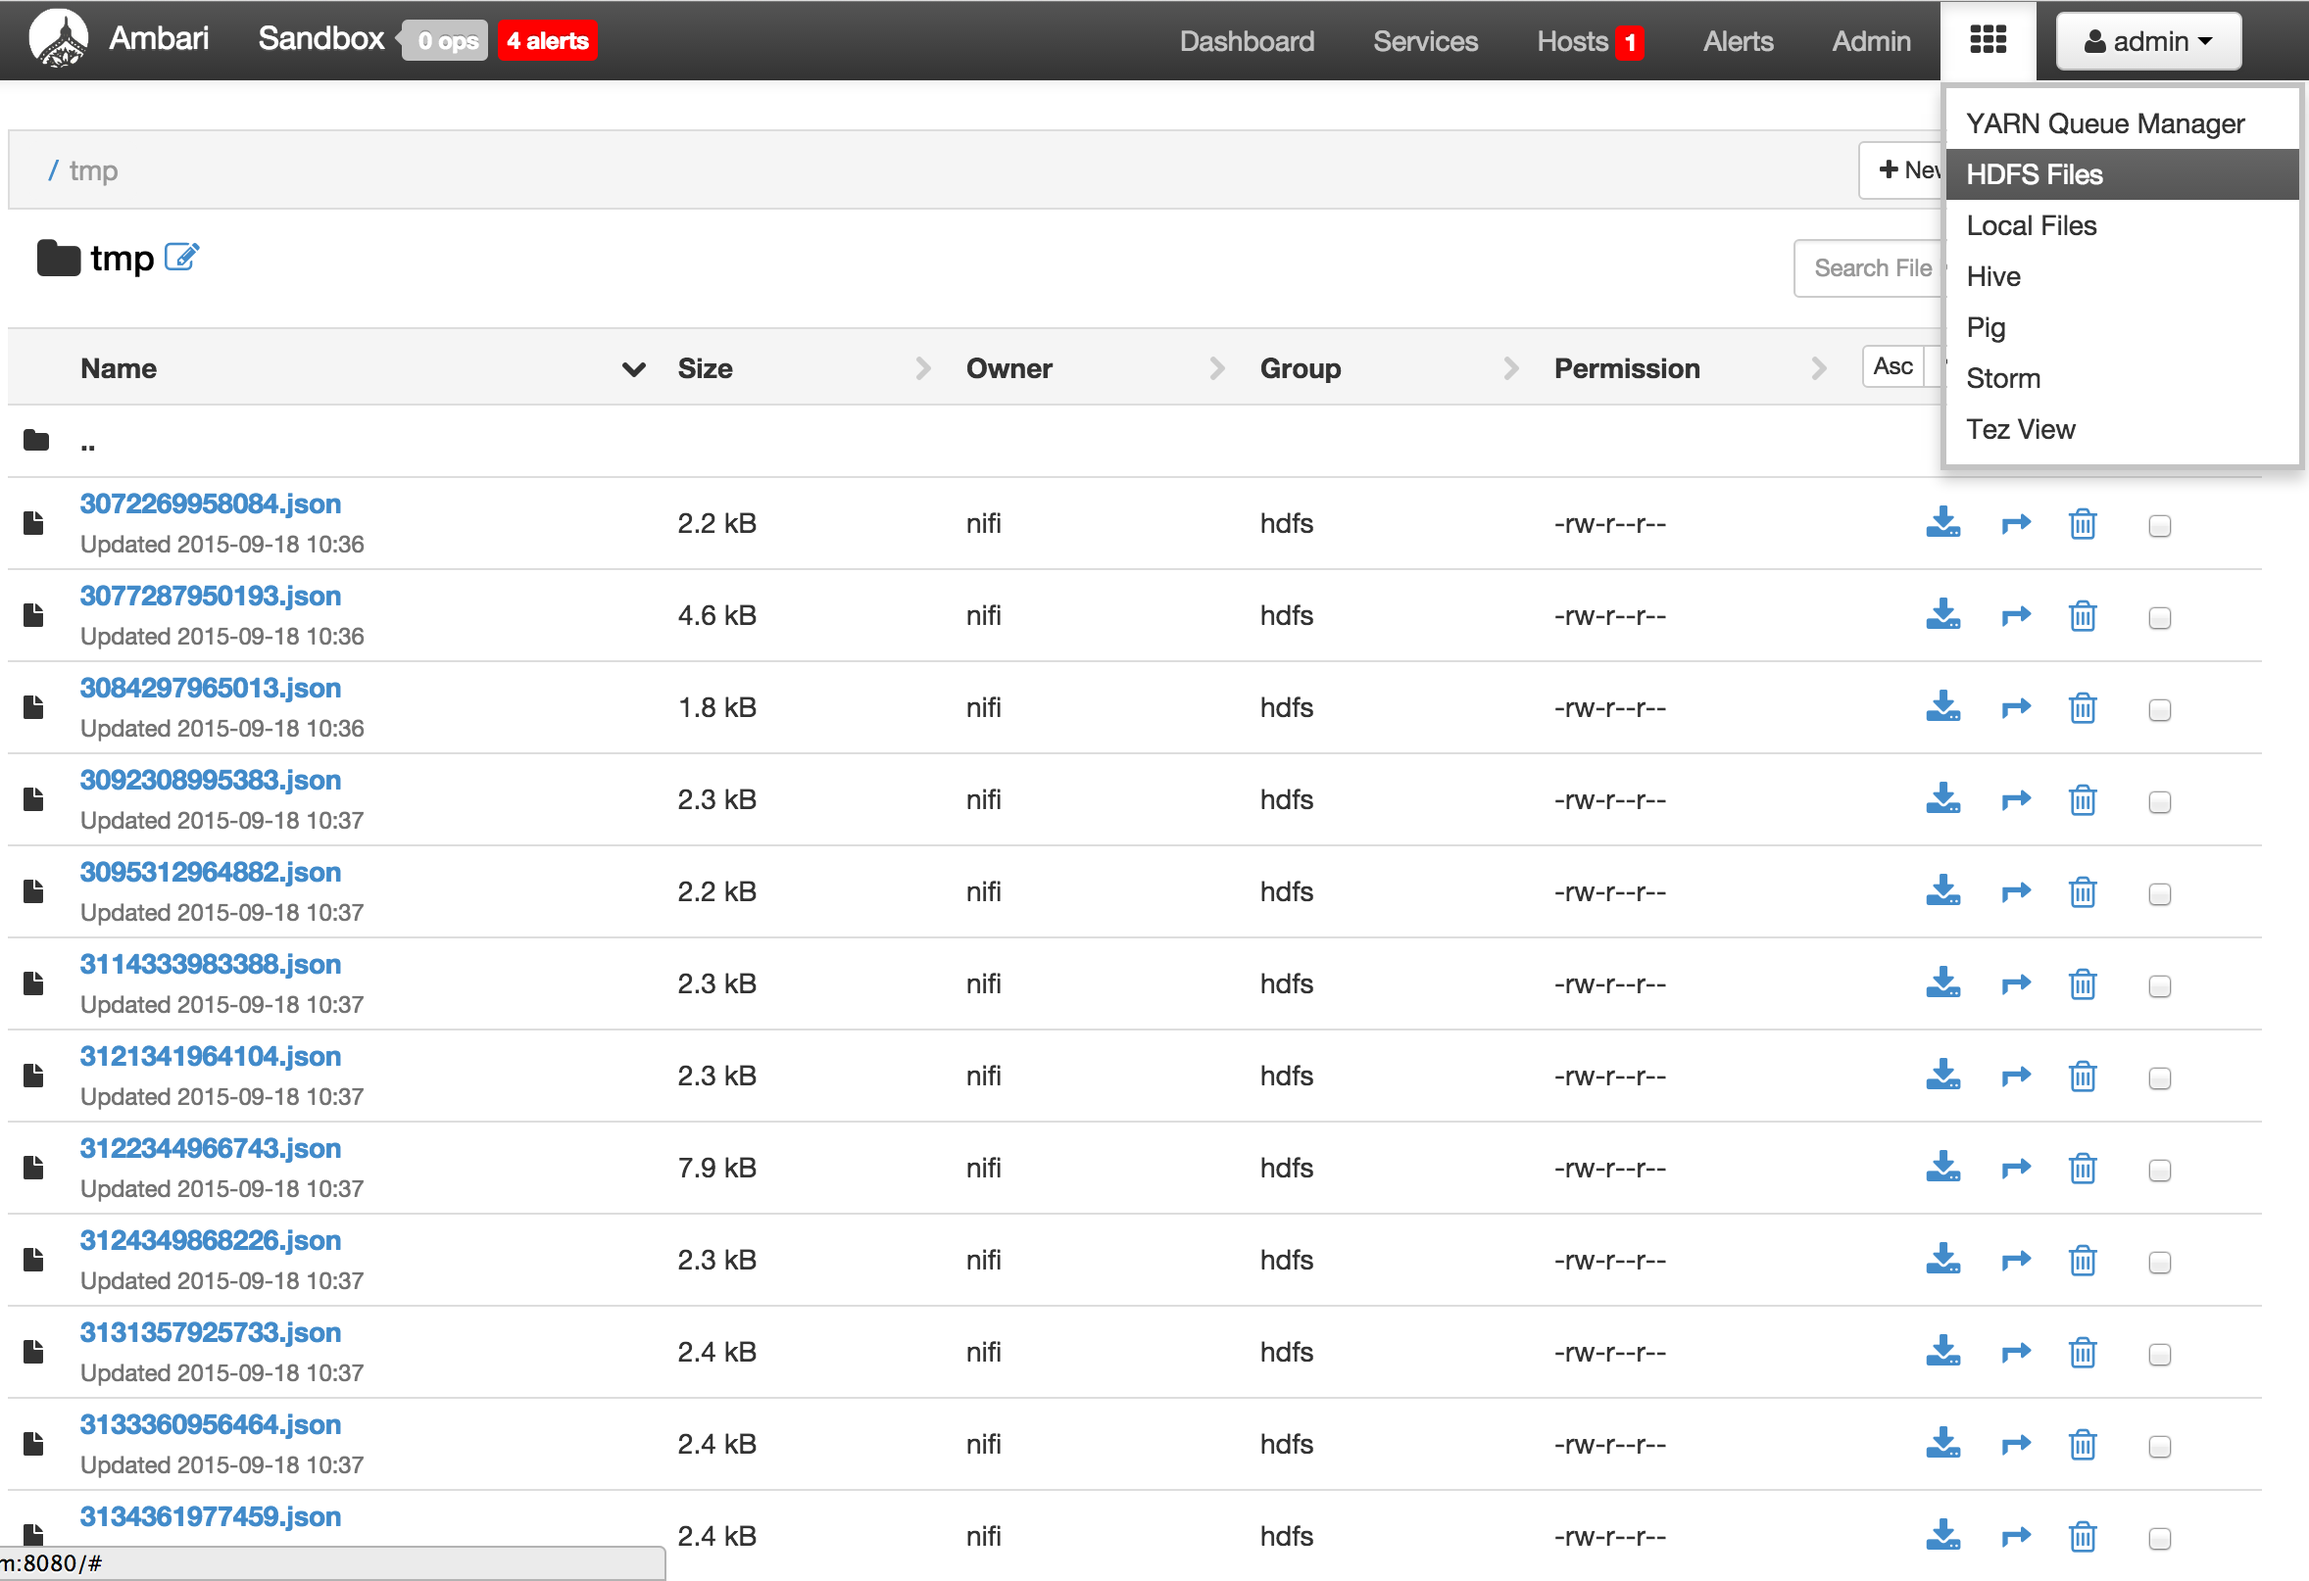
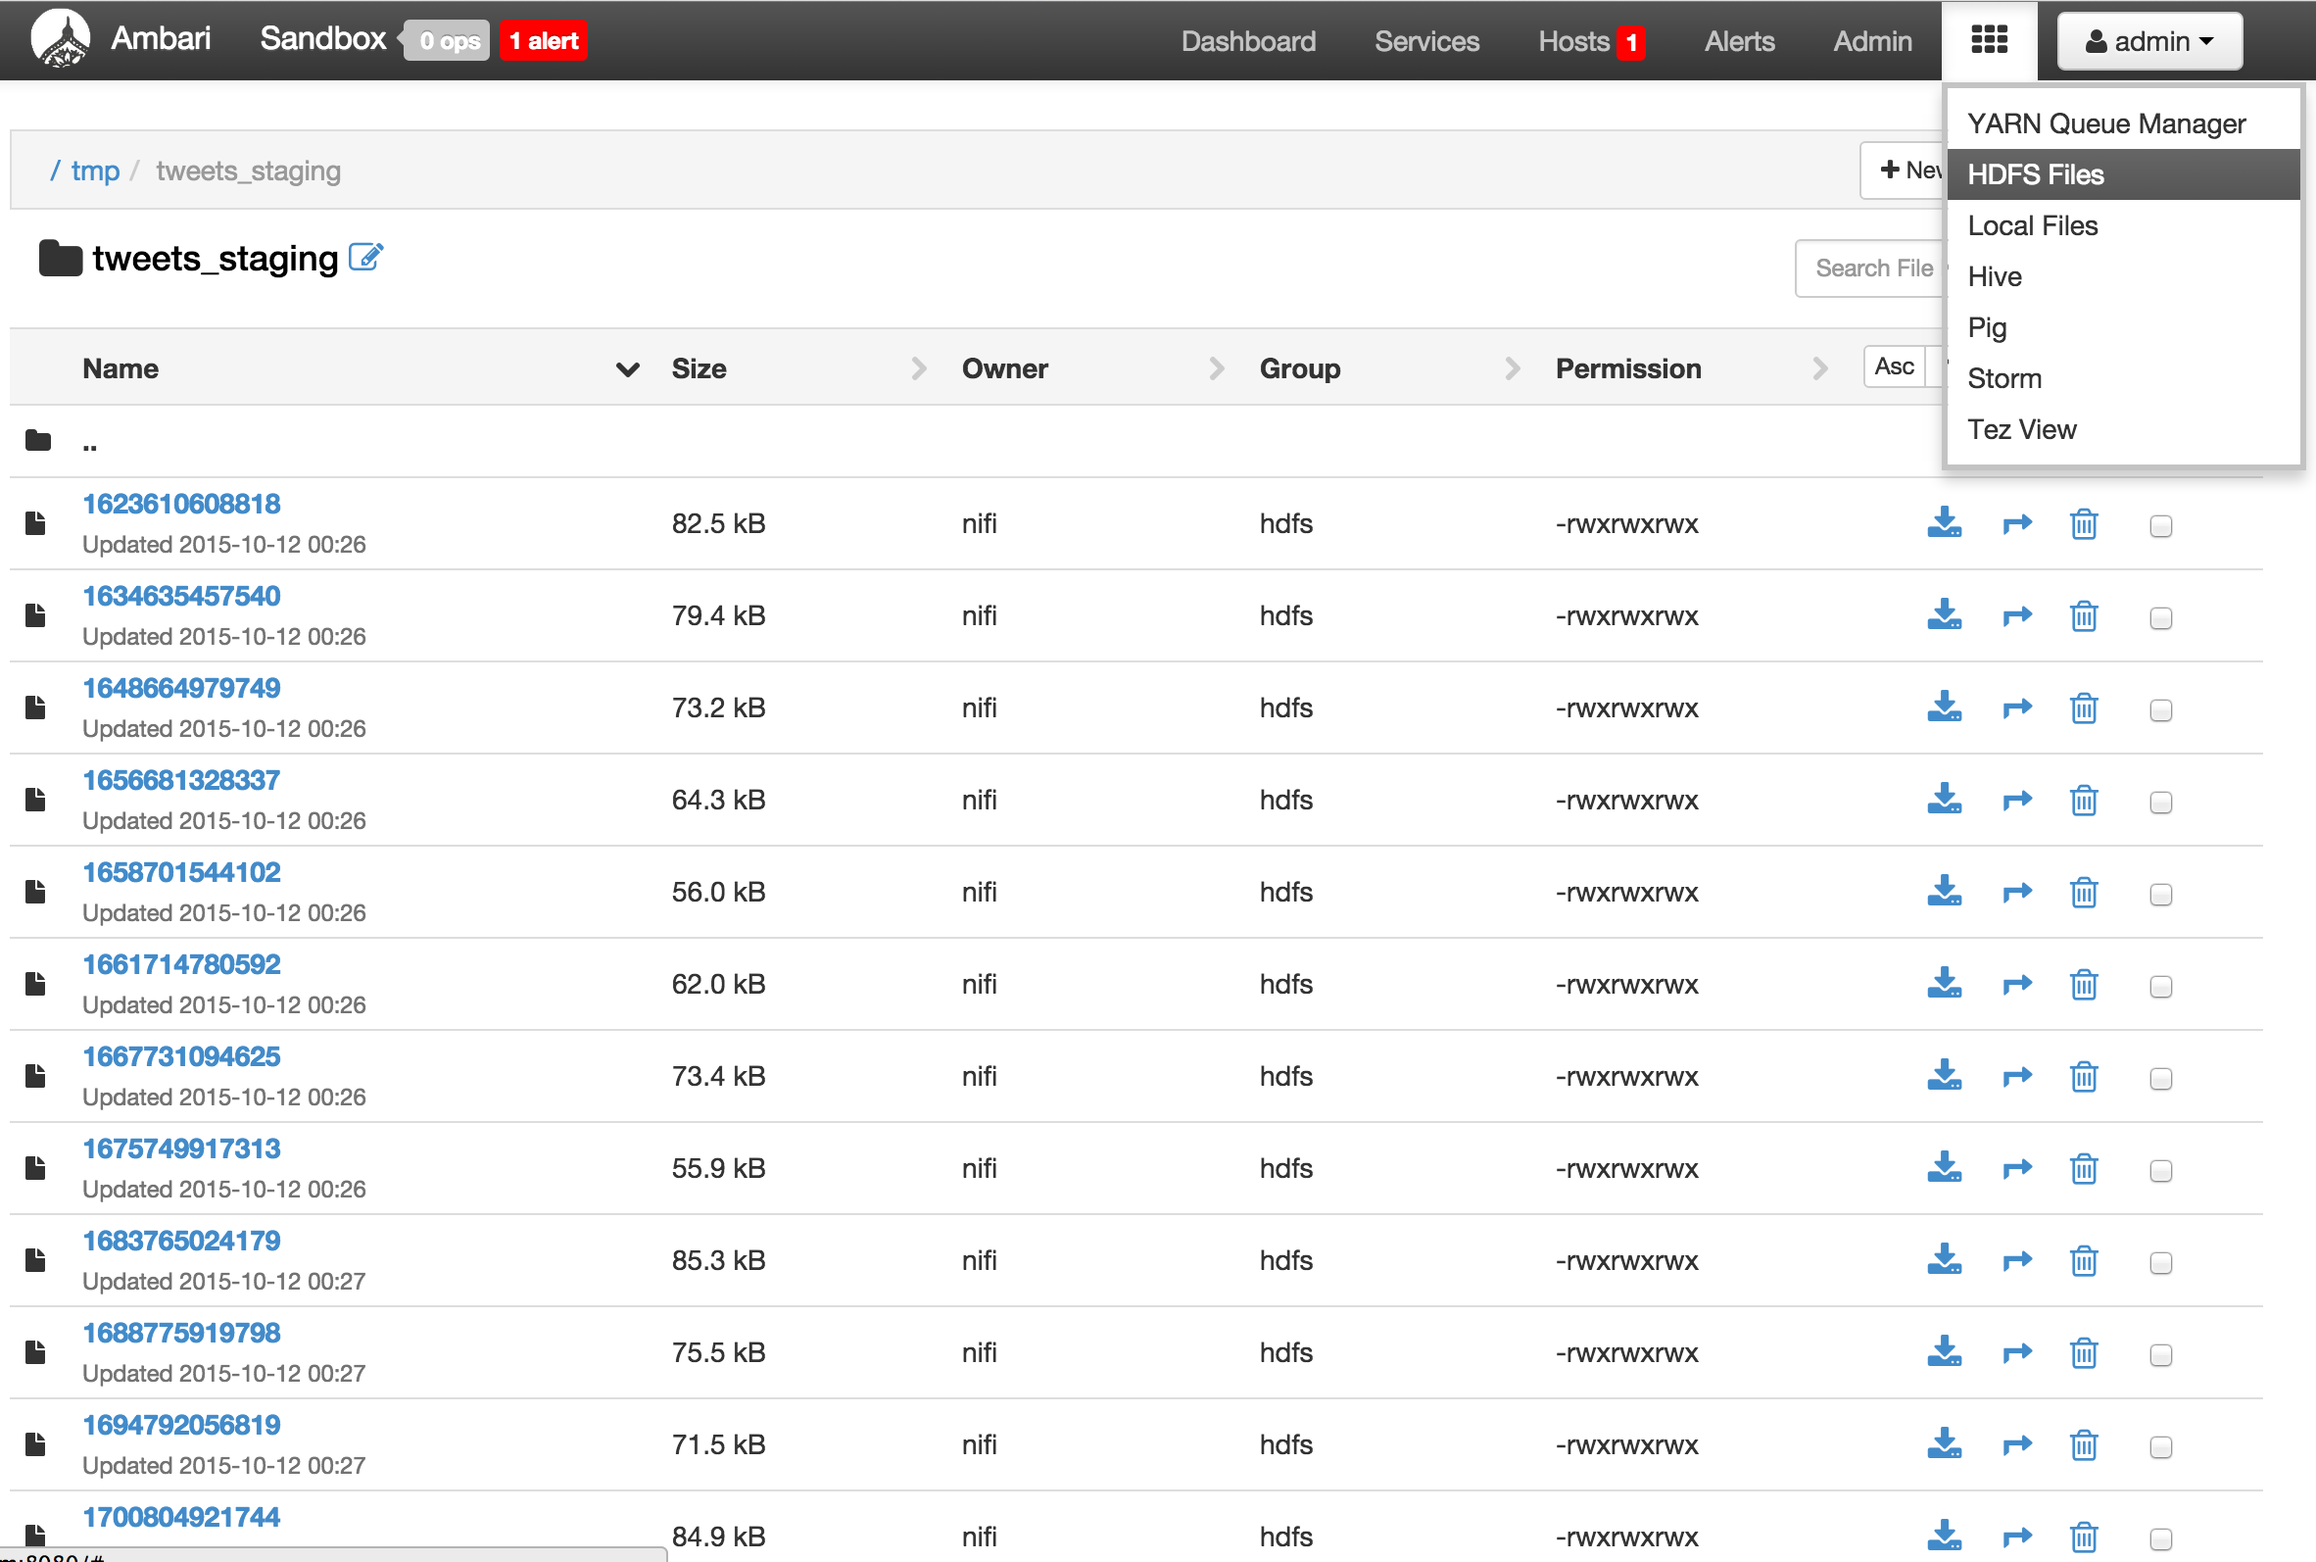
added demo template and banana dasboard

diff --git a/README.md b/README.md
@@ -107,9 +107,19 @@ http://sandbox.hortonworks.com:9090/nifi
 
 #### Build Twitter flow
 
-- Create simple flow to read Tweets into HDFS/Solr and visualize using Banana dashboard
+- Install Nifi via Ambari service on sandbox by running below and running 'Add service' wizard
+```
+VERSION=`hdp-select status hadoop-client | sed 's/hadoop-client - \([0-9]\.[0-9]\).*/\1/'`
+sudo git clone https://github.com/abajwa-hw/ambari-nifi-service.git   /var/lib/ambari-server/resources/stacks/HDP/$VERSION/services/NIFI   
+#sandbox
+service ambari restart
+#non sandbox
+service ambari-server restart
+``` 
 
-  - Pre-requisite 1: HDP sandbox comes LW HDP search. Follow the steps below to use it to setup Banana, start SolrCloud and create a collection
+- Import simple flow to read Tweets into HDFS/Solr and visualize using Banana dashboard
+
+  - HDP sandbox comes LW HDP search. Follow the steps below to use it to setup Banana, start SolrCloud and create a collection
 
     - If running on an Ambari installed HDP 2.3 cluster (instead of sandbox), run the below to install HDPsearch first. These are not needed on sandbox.
     
@@ -119,6 +129,14 @@ http://sandbox.hortonworks.com:9090/nifi
   sudo -u hdfs hadoop fs -chown solr /user/solr
   ```    
     
+  - Ensure no log files owned by root
+  ```
+  chown -R solr:solr /opt/lucidworks-hdpsearch/solr  #current sandbox version has files owned by root here which causes problems
+  ```    
+  - Run remaining setup steps as solr user
+  ```
+  su solr
+  ```
   - Setup the Banana dashboard by copying default.json to dashboard dir
   ```
   cd /opt/lucidworks-hdpsearch/solr/server/solr-webapp/webapp/banana/app/dashboards/
@@ -134,10 +152,7 @@ http://sandbox.hortonworks.com:9090/nifi
    ```  
   
   - Start Solr in cloud mode and create a collection called tweets
-  ```
-  chown -R solr:solr /opt/lucidworks-hdpsearch/solr  #current sandbox version has files owned by root here which causes problems
-  su solr
-  
+  ```  
   /opt/lucidworks-hdpsearch/solr/bin/solr start -c -z localhost:2181
 
   /opt/lucidworks-hdpsearch/solr/bin/solr create -c tweets \
@@ -148,47 +163,56 @@ http://sandbox.hortonworks.com:9090/nifi
   
 
   
-  - Pre-requisite 2: Ensure the time on your sandbox is accurate or you will get errors using the GetTwitter processor. To fix the time, run the below:
+  - Ensure the time on your sandbox is accurate or you will get errors using the GetTwitter processor. To fix the time, run the below:
   ```
   yum install -y ntp
   service ntpd stop
   ntpdate pool.ntp.org
   service ntpd start
   ```  
+  
+  - Create Hive table to be able to run queries on the tweets
+  ```
+  sudo -u hdfs hadoop fs -chmod -R 777 /tmp/tweets_staging
+
+  hive> create table if not exists tweets_text_partition(
+    tweet_id bigint, 
+    created_unixtime bigint, 
+    created_time string, 
+    displayname string, 
+    msg string,
+    fulltext string
+  )
+  row format delimited fields terminated by "|"
+  location "/tmp/tweets_staging"
+
+```    
   - Now open Nifi webui and run the remaining steps there:    
-  - Capture tweets from Twitter API
-    - Drag processor (next to nifi icon in upper left) to canvas and search for GetTwitter and click Add to add to canvas.
-    - Right click on it > Configure
-      - Under Settings:
-        - check failure and success 
+  - Download prebuilt Twitter_Dashboard.xml template to your laptop from [here](https://raw.githubusercontent.com/abajwa-hw/ambari-nifi-service/master/demofiles/Twitter_Dashboard.xml)
+  - Import flow template info Nifi:
+    - Import template by clicking on Templates (third icon from right) which will launch the 'Nifi Flow templates' popup
+    - Browse and navigate to where ever you downloaded Twitter_Dashboard.xml on your local machine
+    - Click Import
+    - Close the popup
+    - Drag/drop the Template icon (7th icon form left) onto the canvas. A picklist popup should appear
+    - Select 'Twitter dashboard' and click Add
+    
+  - Configure GetTwitter processor
+    - Right click on 'GetTwitter' processor (near top) and click Configure
       - Under Properties:
         - Add your Twitter key/secrets
-        - change the 'Twitter Endpoint' to 'Filter Endpoint'
-        - enter the search terms (e.g. hortonworks,hadoop) under 'Terms to Filter on'  
+        - ensure the 'Twitter Endpoint' is set to 'Filter Endpoint'
+        - enter the search terms (e.g. AAPL,GOOG,MSFT,ORCL) under 'Terms to Filter on'  
         
-  - Write tweets to HDFS    
-    - Drag processor to canvas and search for PutHDFS
-    - Right click on it > Configure
-      - Under Settings:
-        - check failure and success
-      - Under Properties:
-        - Hadoop Configuration Resources: `/etc/hadoop/conf/core-site.xml`
-        - Directory: `/tmp`
-        
-  - Connect the two processors:
-    - By dragging the circle in the center of GetTwitter box to PutHDFS box and click Add to add to canvas.
-    
-  - Write tweets to Solr
-    - Drag procesor to canvas and search for PutSolrContentStream
-    - Right click on it > Configure
-      - Under Settings:
-        - check failure and success
-      - Under Properties:
-        - Solr Type: Cloud
-        - Solr Location: sandbox.hortonworks.com:2181
-        - Collection: tweets  
-      - Connect the two by dragging the circle in the center of GetTwitter box to PutSolrContentStream box and click Add  
-
+  - Review the other processors and modify properties as needed:
+    - EvaluateJsonPath: Pulls out attributes of tweets
+    - RouteonAttribute: Ensures only tweets with non-empty messages are processed
+    - PutSolrContentStream: Writes the selected attributes to Solr. In this case, assuming Solr is running in cloud mode with a collection 'tweets'
+    - ReplaceText: Formats each tweet as pipe (|) delimited line entry e.g. tweet_id|unixtime|humantime|user_handle|message|full_tweet
+    - MergeContent: Merges tweets into a single file (either 20 tweets or 120s, whichever comes first)
+    - PutFile: writes tweets to local disk under /tmp/tweets/
+    - PutHDFS: writes tweets to HDFS under /tmp/tweets_staging
+            
   - If setup correctly, the top left hand of each processor on the canvas will show a red square (indicating the flow is stopped)
 
   - Click the Start button (green triangle near top of screen) to start the flow
@@ -202,6 +226,18 @@ http://sandbox.hortonworks.com:9090/nifi
       - http://sandbox.hortonworks.com:8983/solr/#/tweets_shard1_replica1/query
     ![Image](../master/screenshots/Solr-query.png?raw=true)  
 
+  - tweets appear in Banana: 
+    - http://sandbox.hortonworks.com:8983/solr/banana/index.html#/dashboard
+    ![Image](../master/screenshots/banana-view-1.png?raw=true)  
+    ![Image](../master/screenshots/banana-view-2.png?raw=true)  
+
+    
+  - Tweets appear in Hive:
+    - http://sandbox.hortonworks.com:8080/#/main/views/HIVE/1.0.0/Hive
+    ![Image](../master/screenshots/Hive-view.png?raw=true)  
+  
+- Other Nifi features
+    
   - Flow statistics/graphs:
     - Right click on one of the processors (e.g. PutHDFS) and select click 'Stats' to see a number of charts/metrics:
     ![Image](../master/screenshots/nifi-stats.png?raw=true)
